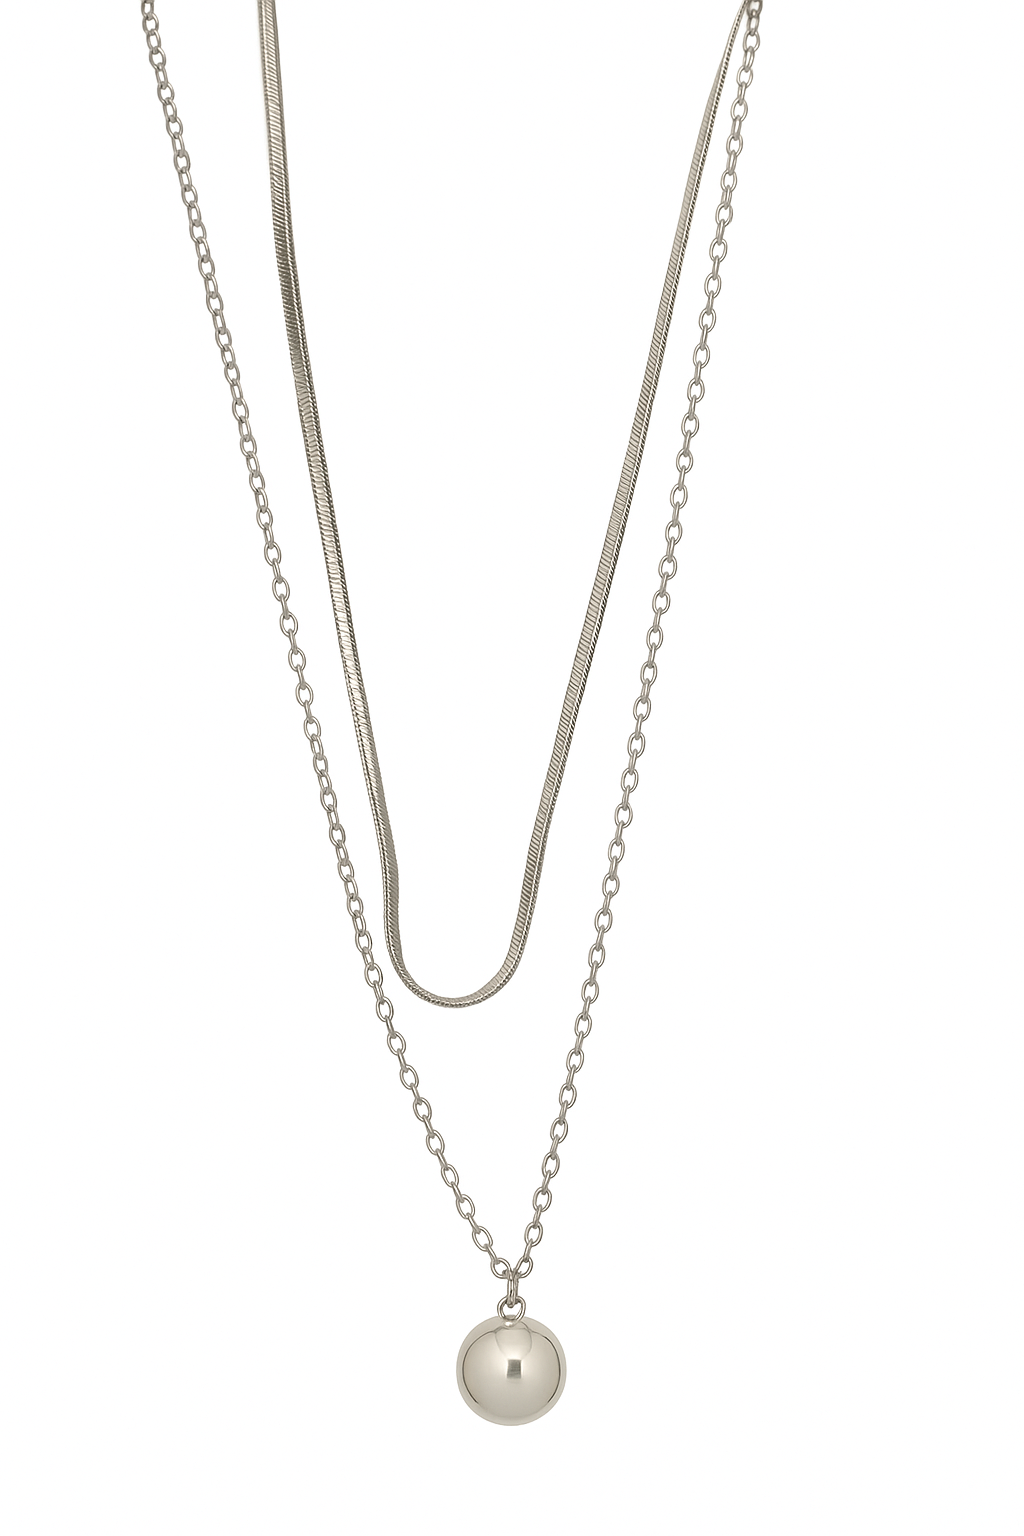
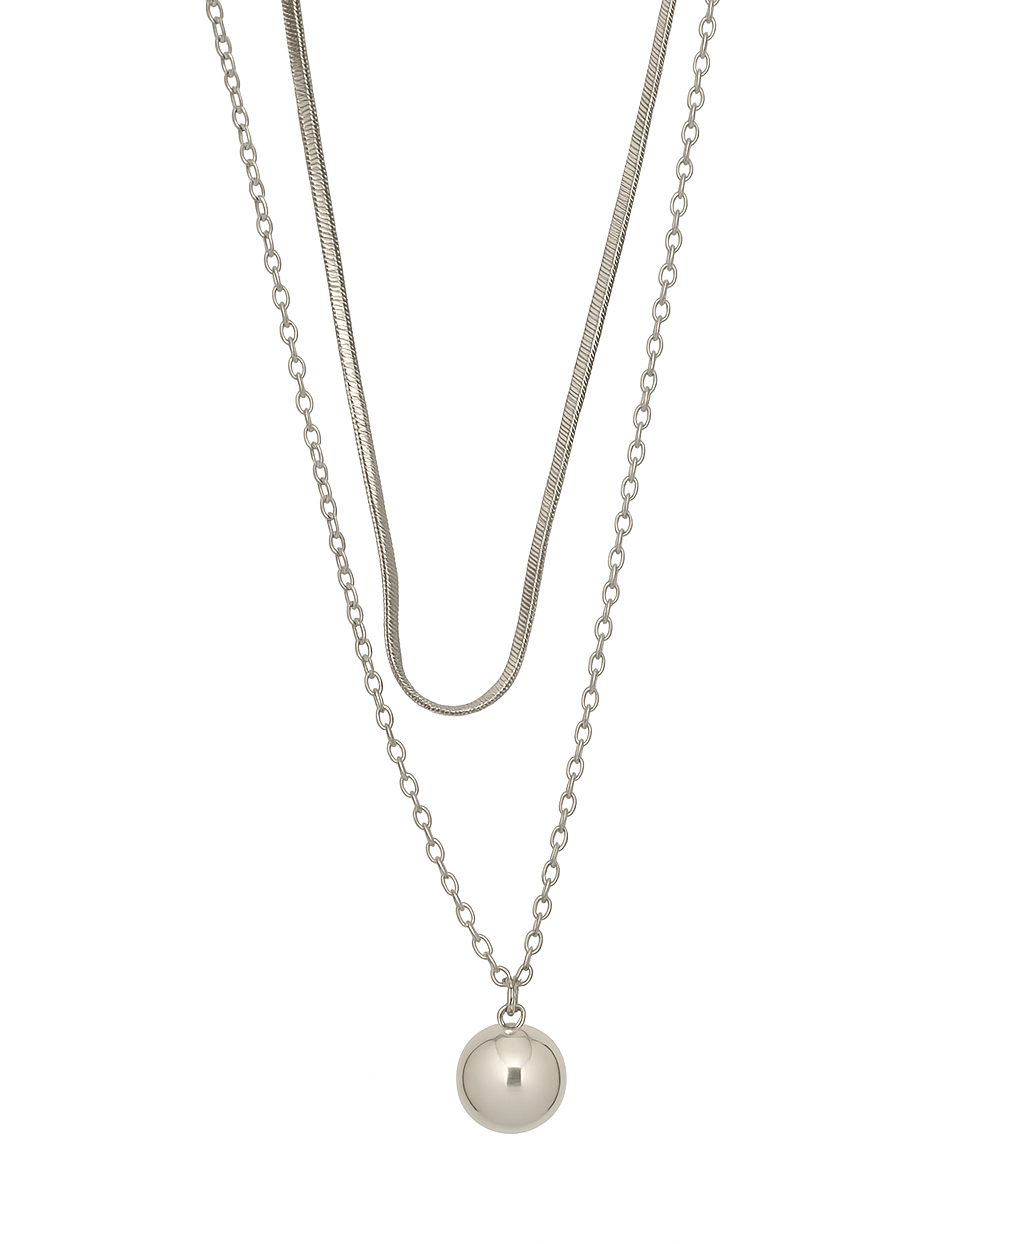
modifications des photos ajouté

Changed region(s): [[0.125, 0.0, 0.75, 0.9469]]

diff --git a/index.html b/index.html
@@ -397,8 +397,8 @@
                                   <h5 class="product-title">Collier Tempus</h5>
                                  <div class="product-meta">
                                      <span class="price">2000DA</span>
-                                     <button class="btn-add" data-id="SKU001" data-name="Collier Tempus" data-price="2000" data-img="img/img/collier3rond.png">Ajouter</button>
-                                     <button class="btn-buy" data-id="SKU001" data-name="Collier Tempus" data-price="2000" data-img="img/img/collier3rond.png">Acheter</button>
+                                     <button class="btn-add" data-id="SKU001" data-name="Collier Tempus" data-price="2000" data-img="img/collier3rond.png">Ajouter</button>
+                                     <button class="btn-buy" data-id="SKU001" data-name="Collier Tempus" data-price="2000" data-img="img/collier3rond.png">Acheter</button>
                                 </div>
                              </div>
                          </article>
